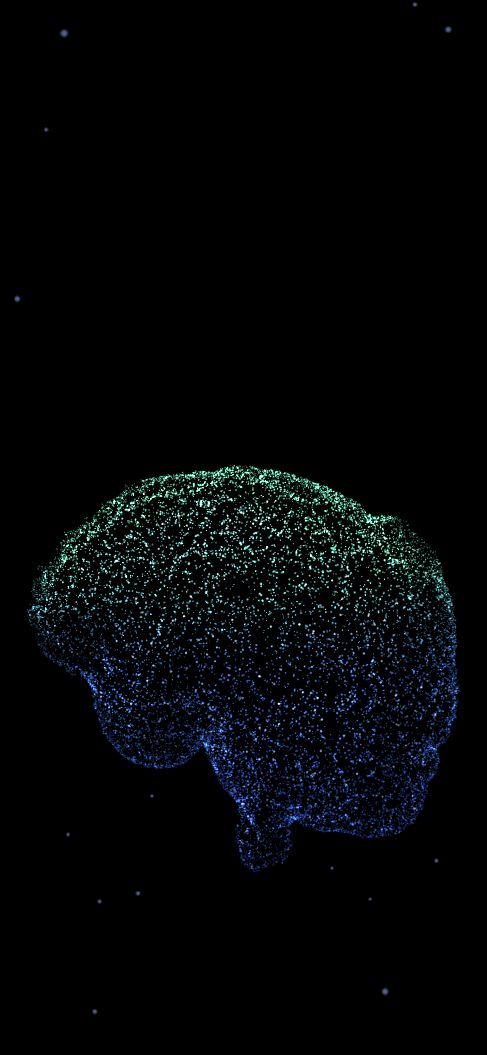
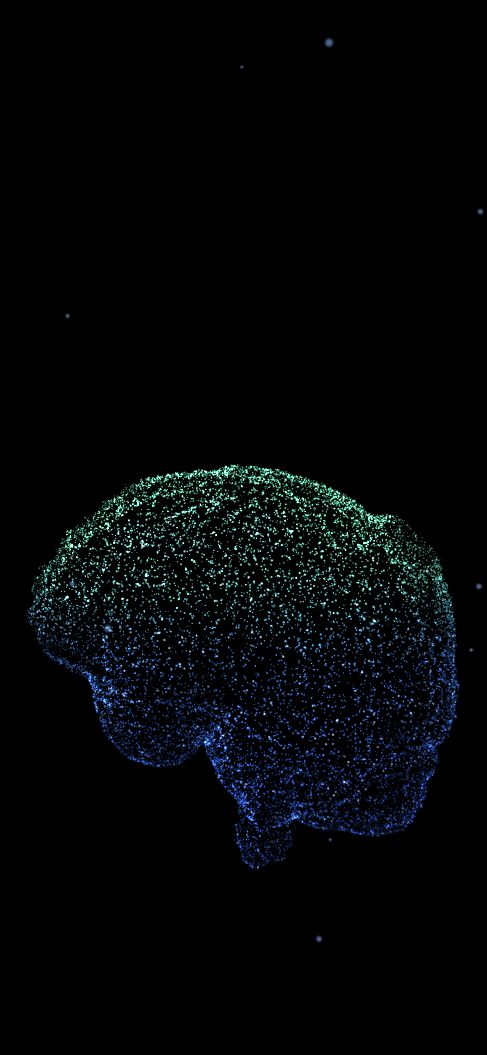
Cerebro: la cara lejana se ve algo más (sin zonas oscuras al girar mucho)

Changed region(s): [[0.0616, 0.4246, 0.9548, 0.819], [0.6468, 0.0303, 0.6776, 0.0607]]

diff --git a/src/scripts/hero3d.js b/src/scripts/hero3d.js
@@ -379,7 +379,7 @@ export function initHero3D() {
         float facing = dot(normalize(nb + vec3(1e-5)), vdir);
         // cerebro: la cara de atrás no desaparece del todo (se ve más tenue, como la parte lejana de un objeto sólido); si se apagaba
         // del todo, al girar quedaba una franja vacía entre el borde y el cuerpo
-        float vis = mix(1.0, 0.16 + 0.84*smoothstep(-0.3, 0.3, facing), w2);
+        float vis = mix(1.0, 0.38 + 0.62*smoothstep(-0.45, 0.35, facing), w2);
         // luz desde arriba a la izquierda: da volumen al cerebro (zonas iluminadas y en sombra)
         float lit = mix(1.0, 0.55 + 0.65 * max(dot(normalize(nb + vec3(1e-5)), normalize(vec3(-0.35, 0.55, 0.76))), 0.0), w2);
         float alive = aVis.x*w0 + aVis.y*w1 + aVis.z*w2;
